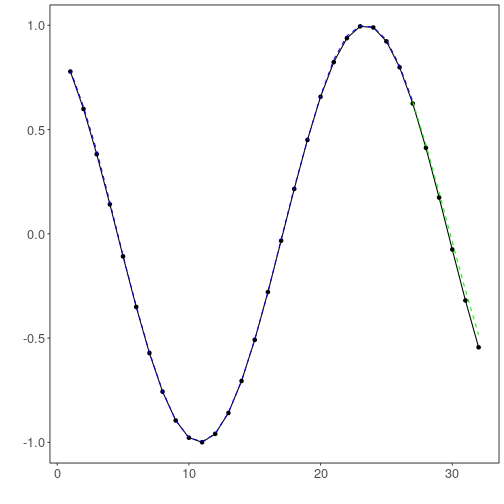
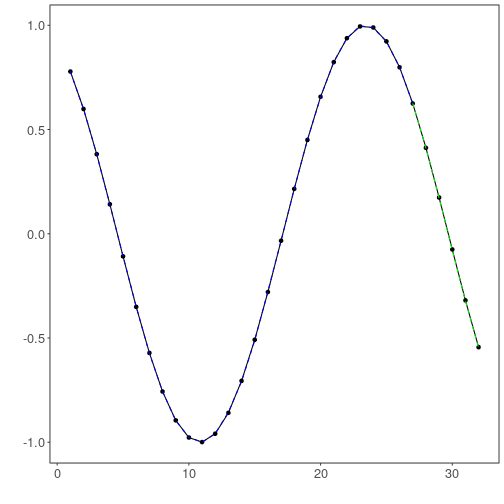
Update

diff --git a/timeseries/ts_encode-decode.md b/timeseries/ts_encode-decode.md
@@ -8,11 +8,7 @@
 
 
 #loading DAL
-library(daltoolbox)("daltoolbox")
-```
-
-```
-## Error in eval(expr, envir, enclos): attempt to apply non-function
+library(daltoolbox)
 ```
 
 ### Series for studying
@@ -85,13 +81,13 @@ print(head(result))
 ```
 
 ```
-##            [,1]      [,2]      [,3]      [,4]      [,5]
-## [1,] 0.01158039 0.2582268 0.4731243 0.6794330 0.8472575
-## [2,] 0.24805304 0.4761450 0.6781027 0.8454192 0.9471635
-## [3,] 0.48002046 0.6803970 0.8447859 0.9545926 0.9933413
-## [4,] 0.68115789 0.8451068 0.9512719 0.9937884 0.9836767
-## [5,] 0.84395051 0.9502990 0.9993019 0.9782667 0.9120270
-## [6,] 0.94958442 0.9948477 0.9815673 0.9070619 0.7809289
+##             [,1]      [,2]      [,3]      [,4]      [,5]
+## [1,] 0.005899079 0.2473060 0.4810104 0.6816949 0.8435537
+## [2,] 0.247921556 0.4759410 0.6874245 0.8433184 0.9530915
+## [3,] 0.477905065 0.6812820 0.8415205 0.9477597 0.9946346
+## [4,] 0.683750272 0.8423758 0.9488163 1.0009781 0.9881719
+## [5,] 0.843079805 0.9486498 0.9955989 0.9847809 0.9072384
+## [6,] 0.948068738 0.9979724 0.9826242 0.9105821 0.7830940
 ```
 
 ### Encoding of test
@@ -117,10 +113,10 @@ print(head(result))
 
 ```
 ##           [,1]      [,2]        [,3]        [,4]       [,5]
-## [1,] 0.9899275 0.9291923  0.79960656  0.63016957  0.4065340
-## [2,] 0.9256714 0.8015456  0.62873733  0.41371214  0.1723070
-## [3,] 0.8748553 0.6125578  0.37054610  0.01707872 -0.2964017
-## [4,] 0.6103458 0.3501002  0.06235053 -0.18751411 -0.4560156
-## [5,] 0.3102701 0.0811488 -0.13536425 -0.37503117 -0.5711181
+## [1,] 0.9927783 0.9173319  0.79706490  0.62158769  0.4016899
+## [2,] 0.9268878 0.8025707  0.63260961  0.41169983  0.1724054
+## [3,] 0.8110301 0.5473571  0.28096804 -0.02071698 -0.3031771
+## [4,] 0.6093938 0.3481730  0.08180707 -0.18847840 -0.4511133
+## [5,] 0.3715065 0.1078450 -0.15037483 -0.38949436 -0.5976698
 ```
 

diff --git a/timeseries/ts_encode.md b/timeseries/ts_encode.md
@@ -8,11 +8,7 @@
 
 
 #loading DAL
-library(daltoolbox)("daltoolbox")
-```
-
-```
-## Error in eval(expr, envir, enclos): attempt to apply non-function
+library(daltoolbox)
 ```
 
 ### Series for studying
@@ -85,13 +81,13 @@ print(head(result))
 ```
 
 ```
-##           [,1]       [,2]      [,3]
-## [1,] 0.0677183 -0.6762174 1.0282019
-## [2,] 0.3043296 -0.9997389 1.0442926
-## [3,] 0.5224816 -1.2701842 0.9764421
-## [4,] 0.6991041 -1.4687785 0.8372102
-## [5,] 0.8104581 -1.5820323 0.6499083
-## [6,] 0.8447057 -1.6096097 0.4332939
+##            [,1]        [,2]       [,3]
+## [1,] -0.5540483 -0.57081294 -0.4571421
+## [2,] -0.7810479 -0.46630824 -0.6575848
+## [3,] -0.9695484 -0.33929244 -0.8367142
+## [4,] -1.0994371 -0.19539441 -0.9844778
+## [5,] -1.1636220 -0.03192895 -1.0976430
+## [6,] -1.1601703  0.12822782 -1.1655099
 ```
 
 ### Encoding of test
@@ -116,11 +112,11 @@ print(head(result))
 ```
 
 ```
-##            [,1]       [,2]        [,3]
-## [1,]  0.7437662 -1.3976041 -0.09033697
-## [2,]  0.5745521 -1.1749763 -0.36347350
-## [3,]  0.3190219 -0.9235739 -0.81161129
-## [4,] -0.1885568 -0.4234360 -0.89012259
-## [5,] -0.3831522 -0.1132880 -1.01046491
+##             [,1]      [,2]       [,3]
+## [1,] -0.95122117 0.4011939 -1.1892285
+## [2,] -0.74593300 0.5162513 -1.1589203
+## [3,] -0.28517359 0.8449734 -1.2708745
+## [4,]  0.02256187 0.9314255 -1.1175823
+## [5,]  0.33925170 0.7851774 -0.9070409
 ```
 

diff --git a/timeseries/ts_lstm.md b/timeseries/ts_lstm.md
@@ -8,11 +8,7 @@
 
 
 #loading DAL
-library(daltoolbox)("daltoolbox")
-```
-
-```
-## Error in eval(expr, envir, enclos): attempt to apply non-function
+library(daltoolbox)
 ```
 
 ### Series for studying
@@ -68,7 +64,7 @@ ev_adjust$mse
 ```
 
 ```
-## [1] 0.0005472658
+## [1] 0.0003773015
 ```
 
 ### Prediction of test
@@ -88,7 +84,7 @@ print(sprintf("%.2f, %.2f", output, prediction))
 ```
 
 ```
-## [1] "0.41, 0.44"   "0.17, 0.20"   "-0.08, -0.08" "-0.32, -0.35" "-0.54, -0.59"
+## [1] "0.41, 0.41"   "0.17, 0.16"   "-0.08, -0.10" "-0.32, -0.34" "-0.54, -0.56"
 ```
 
 ### Evaluation of test data
@@ -100,8 +96,8 @@ print(head(ev_test$metrics))
 ```
 
 ```
-##            mse     smape        R2
-## 1 0.0008588064 0.0778206 0.9925824
+##            mse      smape        R2
+## 1 0.0002929144 0.08068743 0.9974701
 ```
 
 ```r
@@ -109,7 +105,7 @@ print(sprintf("smape: %.2f", 100*ev_test$metrics$smape))
 ```
 
 ```
-## [1] "smape: 7.78"
+## [1] "smape: 8.07"
 ```
 
 ### Plot results

diff --git a/timeseries/ts_conv1d.md b/timeseries/ts_conv1d.md
@@ -8,11 +8,7 @@
 
 
 #loading DAL
-library(daltoolbox)("daltoolbox")
-```
-
-```
-## Error in eval(expr, envir, enclos): attempt to apply non-function
+library(daltoolbox)
 ```
 
 ### Series for studying
@@ -68,7 +64,7 @@ ev_adjust$mse
 ```
 
 ```
-## [1] 4.465049e-05
+## [1] 2.649499e-06
 ```
 
 ### Prediction of test
@@ -87,20 +83,20 @@ ev_test
 ## [1]  0.41211849  0.17388949 -0.07515112 -0.31951919 -0.54402111
 ## 
 ## $prediction
-## [1]  0.42813144  0.19906450 -0.03729289 -0.26960795 -0.48405367
+## [1]  0.4105956  0.1711172 -0.0787387 -0.3223954 -0.5475302
 ## 
 ## $smape
-## [1] 0.2265179
+## [1] 0.01635785
 ## 
 ## $mse
-## [1] 0.001682134
+## [1] 8.692349e-06
 ## 
 ## $R2
-## [1] 0.9854713
+## [1] 0.9999249
 ## 
 ## $metrics
-##           mse     smape        R2
-## 1 0.001682134 0.2265179 0.9854713
+##            mse      smape        R2
+## 1 8.692349e-06 0.01635785 0.9999249
 ```
 
 ### Plot results

diff --git a/timeseries/ts_arima.md b/timeseries/ts_arima.md
@@ -11,6 +11,23 @@
 library(daltoolbox) 
 ```
 
+```
+## Registered S3 method overwritten by 'quantmod':
+##   method            from
+##   as.zoo.data.frame zoo
+```
+
+```
+## 
+## Attaching package: 'daltoolbox'
+```
+
+```
+## The following object is masked from 'package:base':
+## 
+##     transform
+```
+
 ### Series for studying
 
 

diff --git a/timeseries/ts_tune.md b/timeseries/ts_tune.md
@@ -14,14 +14,8 @@ Configuring the environment:
 
 
 #loading DAL Toolbox
-library(daltoolbox)("daltoolbox")
-```
+library(daltoolbox)
 
-```
-## Error in eval(expr, envir, enclos): attempt to apply non-function
-```
-
-```r
 #load required library
 library(ggplot2)
 ```
